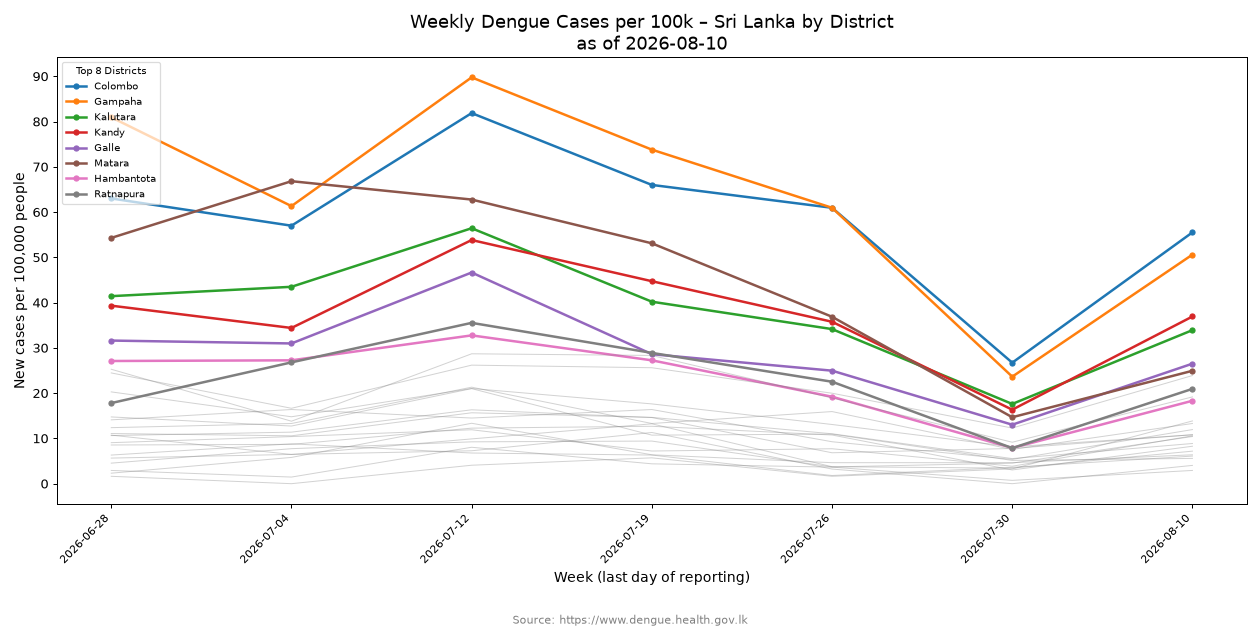
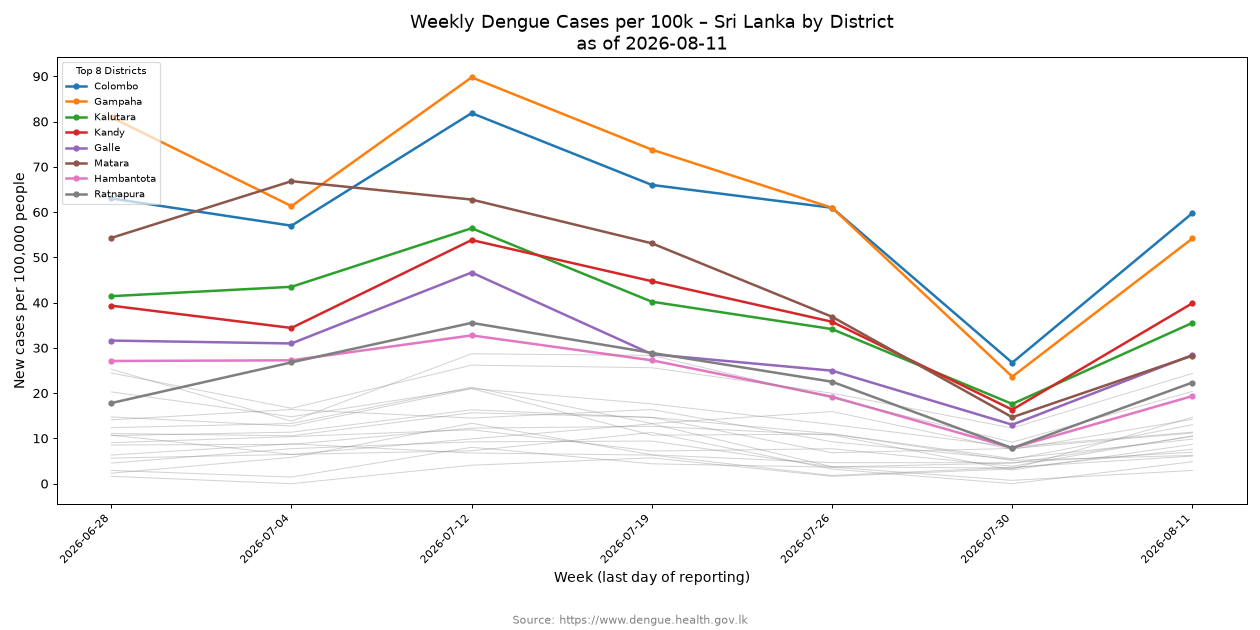
🤖 [pipeline.yml] 2026-08-12-0510

Changed region(s): [[0.8048, 0.3317, 0.9595, 0.754], [0.5571, 0.0603, 0.5881, 0.0905]]

diff --git a/README.md b/README.md
@@ -244,6 +244,7 @@ As of 2026-08-02
 
 ### [National Dengue Control Unit - Daily Update](data/NDCUDaily)
 
+- [2026-08-11](data/NDCUDaily/2026/2026-08/2026-08-11)
 - [2026-08-10](data/NDCUDaily/2026/2026-08/2026-08-10)
 - [2026-07-30](data/NDCUDaily/2026/2026-07/2026-07-30)
 - [2026-07-29](data/NDCUDaily/2026/2026-07/2026-07-29)
